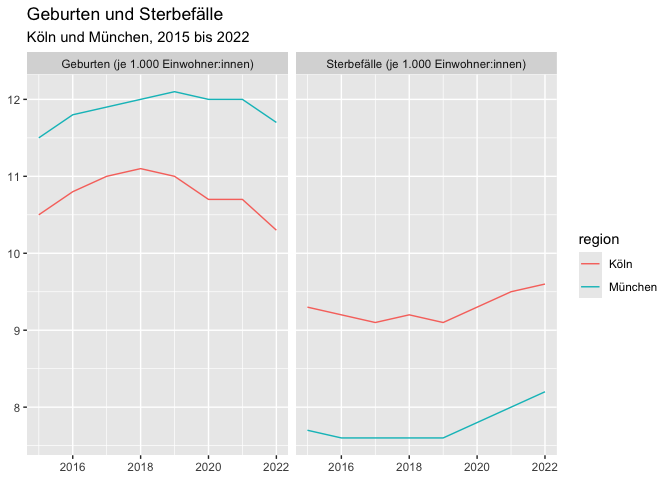
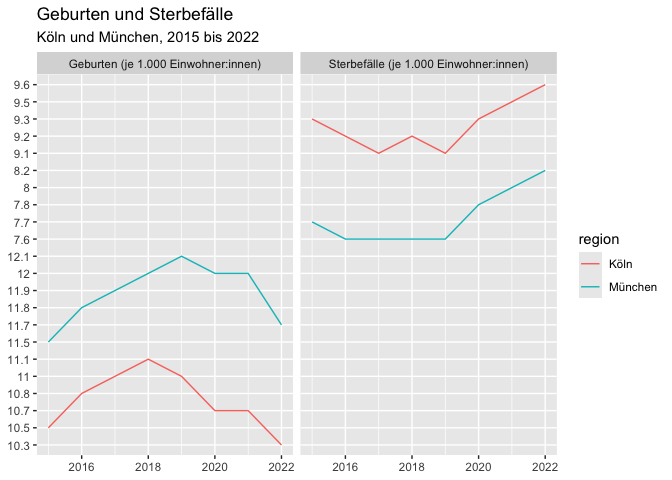
Add wwk_read_csv

diff --git a/README.md b/README.md
@@ -54,21 +54,21 @@ csv <- wwk_export(
   region = "koeln",
   year = 2020:2019
 )
-
-# skip = 2: 
-# - The first 2 rows contain meta data, i.e. names of indicators and regions
-# n_max = 1: 
-# - The data is returned in wide format with one row per indicator
-# - Using n_max = 1 we can skip the additional meta data at the tail
-dat <- readr::read_csv2(csv, skip = 2, n_max = 1, show_col_types = FALSE) 
+# Read data as a tidy tibble
+dat <- wwk_read_csv(csv)
 #> ℹ Using "','" as decimal and "'.'" as grouping mark. Use `read_delim()` for more control.
+#> Warning: One or more parsing issues, call `problems()` on your data frame for details,
+#> e.g.:
+#>   dat <- vroom(...)
+#>   problems(dat)
 
 # Explore the data
 head(dat)
-#> # A tibble: 1 × 3
-#>   Indikatoren                         `2019\nKöln` `2020\nKöln`
-#>   <chr>                                      <dbl>        <dbl>
-#> 1 Geburten (je 1.000 Einwohner:innen)           11         10.7
+#> # A tibble: 2 × 4
+#>   indicator                            year region value
+#>   <chr>                               <int> <chr>  <chr>
+#> 1 Geburten (je 1.000 Einwohner:innen)  2019 Köln   11   
+#> 2 Geburten (je 1.000 Einwohner:innen)  2020 Köln   10.7
 ```
 
 ------------------------------------------------------------------------
@@ -97,21 +97,17 @@ csv <- wwk_export(
   indikator = c("geburten", "sterbefaelle"),
   region = c("koeln", "muenchen")
 )
-
-dat <- readr::read_csv2(csv, skip = 2, n_max = 2, show_col_types = FALSE) |>
-  # Reshape to tidy format
-  tidyr::pivot_longer(
-    -Indikatoren,
-    names_to = c("year", "region"),
-    names_sep = "\n",
-    names_transform = list(year = as.integer)
-  )
+dat <- wwk_read_csv(csv)
 #> ℹ Using "','" as decimal and "'.'" as grouping mark. Use `read_delim()` for more control.
+#> Warning: One or more parsing issues, call `problems()` on your data frame for details,
+#> e.g.:
+#>   dat <- vroom(...)
+#>   problems(dat)
 
 years <- paste(range(dat$year), collapse = " bis ")
 ggplot(dat, aes(x = year, y = value, color = region, group = region)) +
   geom_line() +
-  facet_wrap(~Indikatoren) +
+  facet_wrap(~indicator) +
   labs(
     title = "Geburten und Sterbefälle",
     subtitle = sprintf("Köln und München, %s", years),

diff --git a/NEWS.md b/NEWS.md
@@ -1,5 +1,7 @@
 # rwwk 0.0.0.9000
 
+* Add `wwk_read_csv()` to read csv data returned by the WWK API as a tidy tibble.
+
 * Add `wwk_get_xxx()` family of functions to retrieve meta data on a single
   indicator, region or topic.
 
